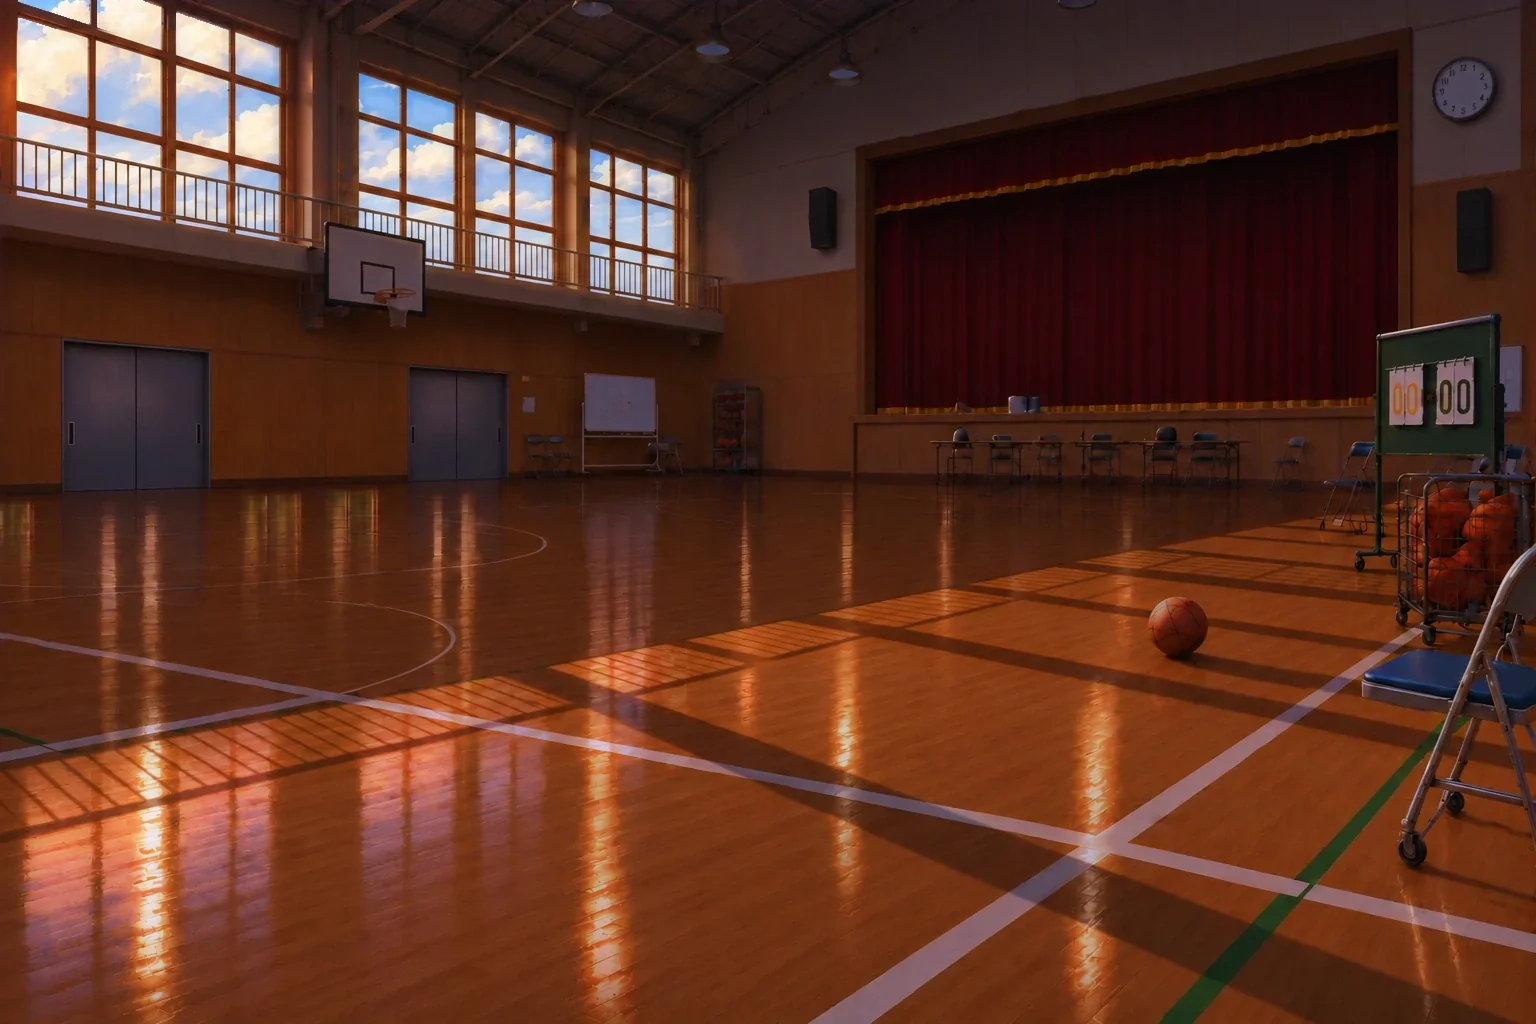
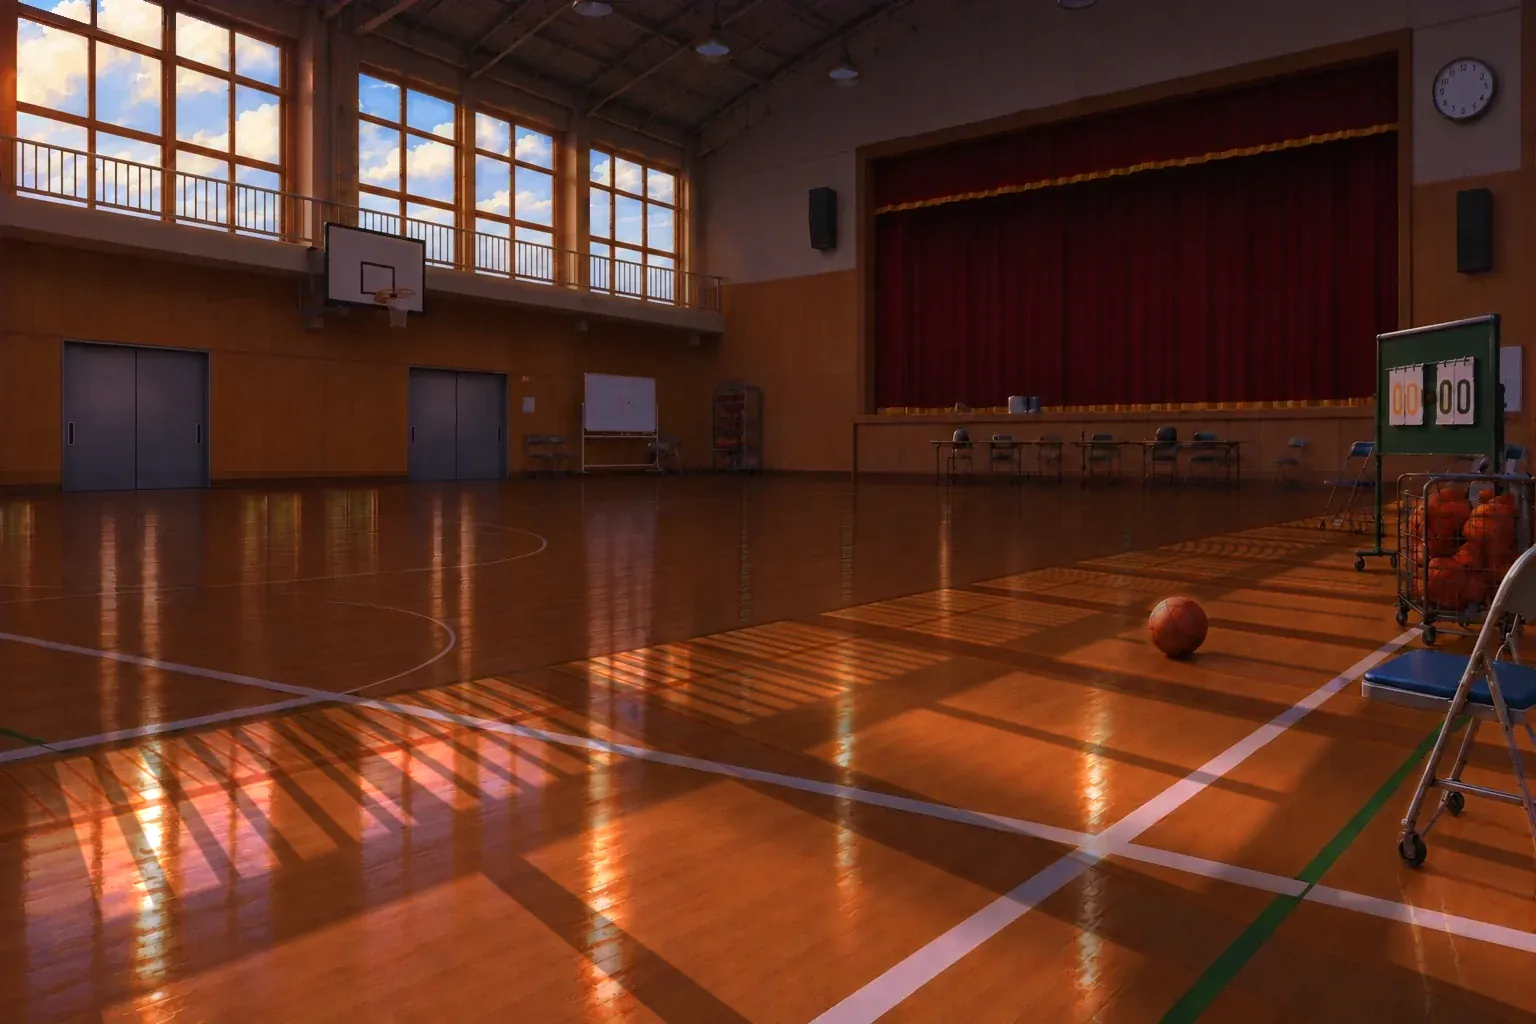
体育館の床の日差しを窓の形から計算し直す、ぎこちない校門前のミオを半歩手前に、ミオの差し出す表情・一歩下がるときの拡大・背景の椅子の読み込みを直す

Changed region(s): [[0.0, 0.5, 1.0, 1.0], [0.2812, 0.5, 0.3125, 0.5625], [0.2188, 0.5, 0.25, 0.5625]]

diff --git a/index.html b/index.html
@@ -1308,12 +1308,22 @@
   let guest = null;
   function guestRender() {
     const g = $('#guestFig');
-    if (!guest || !C || !C.faces[guest.f]) { g.classList.remove('show'); return; }
+    if (!guest || !C || !C.faces[guest.f]) { guestRender.tok = (guestRender.tok || 0) + 1; g.classList.remove('show'); return; }
     // small：一回り小さい全身の絵（mio_f_*）。脚は画面の下で切れる（2026-11-10、第五章でミオがベッドから一歩さがった後）
-    if ((guest.far === 'small' || guest.far === 'distant') && !guestRender.pre) guestRender.pre = ['down', 'nb', 'nb_apology', 'nb_surprise', 'nb_down', 'nb_grief', 'nb_plead', 'nb_crysmile', 'nb_skirt', 'nbleave', 'nbleavewonder'].map(s => { const i = new Image(); i.src = `img/mio_f_${s}_inf.webp`; return i; });   // 切り替えでちらつかないよう先に読む
+    // 2026-11-16：全身の小さい絵は、ミオが出た時点で先に読んでおく（前は小さくする瞬間に読み始めていた）
+    if (guest.who === 'ミオ' && !guestRender.pre) guestRender.pre = ['down', 'nb', 'nb_apology', 'nb_surprise', 'nb_down', 'nb_grief', 'nb_plead', 'nb_crysmile', 'nb_skirt', 'nbleave', 'nbleavewonder'].map(s => { const i = new Image(); i.src = `img/mio_f_${s}_inf.webp`; return i; });   // 切り替えでちらつかないよう先に読む
     const small = guest.far === 'small' || guest.far === 'distant', url = `img/${small ? faceFile(guest.f).replace('mio_p_', 'mio_f_') : faceFile(guest.f)}.webp`;
-    if (g.getAttribute('src') !== url) g.src = url;
-    g.classList.toggle('far', guest.far === true); g.classList.toggle('mid', guest.far === 'mid'); g.classList.toggle('small', guest.far === 'small'); g.classList.toggle('distant', guest.far === 'distant'); g.classList.add('show');
+    const far = guest.far, apply = () => {
+      if (g.getAttribute('src') !== url) g.src = url;
+      g.classList.toggle('far', far === true); g.classList.toggle('mid', far === 'mid'); g.classList.toggle('small', far === 'small'); g.classList.toggle('distant', far === 'distant'); g.classList.add('show');
+    };
+    // 2026-11-16 作者の指摘：一歩下がる（small）とき、新しい絵の読み込みが終わる前に大きさの指定だけが先に変わり、前の絵が一瞬大きく映っていた。
+    // 絵が変わるときは、読み込みが終わってから絵と大きさを同時に替える
+    if (g.getAttribute('src') === url) return apply();
+    const tok = guestRender.tok = (guestRender.tok || 0) + 1, im = new Image(); im.src = url;
+    if (im.complete && im.naturalWidth) return apply();
+    const go = () => { if (guestRender.tok === tok) apply(); };
+    (im.decode ? im.decode() : new Promise((r, j) => { im.onload = r; im.onerror = j; })).then(go, go);
   }
   const guestShow = (f, far, who = 'ミオ') => () => { guest = { f, far: far === undefined && guest ? guest.far : (far || false), who }; guestRender(); };
   const guestHide = () => () => { guest = null; guestRender(); };
@@ -2942,10 +2952,20 @@
     if (!fr || !bg || !sf || !chEl) return;   // 後日談のページ（この部分のコードを取り込む）には座り姿がない
     const hit = sitRoomOfBg();
     const sit = hit && hit.ch.sit;
+    // 2026-11-16 作者の指摘：背景の絵の読み込みとずれて、椅子だけ先に出たり消えたりしていた。
+    // 背景の読み込みが終わるまでは椅子と手前の家具を出さず、椅子の絵も読み込みが終わってから見せる
+    if (bg.getAttribute('src') && !(bg.complete && bg.naturalWidth)) {
+      chEl.style.display = 'none'; fr.style.display = 'none';
+      if (!syncSitFront.wait) { syncSitFront.wait = true; bg.addEventListener('load', () => { syncSitFront.wait = false; syncSitFront(); }, { once: true }); }
+      return;
+    }
     if (sit && sit.chair) {
       const want = `img/${sit.chair}${hit.v}.webp`;
+      syncSitFront.pre = syncSitFront.pre || {};
+      if (!syncSitFront.pre[sit.chair]) syncSitFront.pre[sit.chair] = ['', '_unlit', '_1830_dark', '_1830_lit'].map(v => { const i = new Image(); i.src = `img/${sit.chair}${v}.webp`; return i; });   // 明かりが替わるときに椅子が一瞬消えないよう、4つとも先に読む
       if (chEl.getAttribute('src') !== want) chEl.setAttribute('src', want);
       chEl.setAttribute('style', sit.style); chEl.style.opacity = bg.style.opacity || '';
+      if (!(chEl.complete && chEl.naturalWidth)) { chEl.style.visibility = 'hidden'; chEl.addEventListener('load', () => syncSitFront(), { once: true }); }
     } else chEl.style.display = 'none';
     const figOn = !sf.classList.contains('gone') && !!sf.getAttribute('src') && C && hit && hit.ch === C;
     // chairWhenGone：椅子だけの絵と座り絵の椅子の形が少しちがうので、その子が座っている間は椅子だけの絵を出さない（いなくなってから出す。2026-11-11 ミオ）
@@ -7904,7 +7924,7 @@
         await say([() => bgm('tension'), guestShow('mioDown'), ['ミオ', '……失礼します', 'mioDown'], ['ツムギ', '……ミオ', 'surprise'],
                    ['ミオ', '図書委員の、水野です。……予約の本を、届けに来ました', 'mioSad'],
                    // 差し出すときは目を伏せ、「当番、だから」でツムギの目を見る。受け取られたら本を持たない絵に
-                   guestShow('mioOffer'), 'ミオは胸に抱えていた本を、両手で差し出した。『ひとりぶんの椅子』。', ['ミオ', '……当番、だから', 'mioOfferSad'],
+                   guestShow('mioOfferSad'), 'ミオは胸に抱えていた本を、両手で差し出した。『ひとりぶんの椅子』。'   /* 2026-11-16 作者の指示：次の台詞と同じ表情に */, ['ミオ', '……当番、だから', 'mioOfferSad'],
                    guestHide(), 'ツムギは本を受け取って、そっと表紙を撫でた。ページの間からしおりがのぞいている。']);
         await say([guestShow('mioNbSad'), 'ツムギがしおりを開いた。', '「一年のとき、この本を教えてくれてありがとう。一人で座っていた私に、最初に話しかけてくれたのは、ツムギだった。」',
                    '「黒板の字を書いたのは、私です。ごめんなさい。いてもいなくても同じなんかじゃない。」',
@@ -8052,6 +8072,7 @@
                                          '正門の手前で、ツムギが一度だけ振り返って、手を振った。……その隣で、ミオも小さく手を振った。'],
                                   img: 'gate_mt', alt: '夕焼けの正門で、ツムギとミオが並んで振り返り、二人とも笑って手を振っている' });
     return ending({ lines: ['ミオとツムギと一緒に、保健室を出た。', '昇降口で靴を履き替えると、二人は少しだけ間をあけて、正門へ歩いていった。',
+                            // 2026-11-16 作者の指示：文はそのまま、絵のほうをミオがツムギの半歩後ろに立つ形に直した
                             '正門の手前で、ツムギが振り返って、手を振った。……半歩後ろで、ミオもうつむいたまま小さく手を上げた。'],
                     img: 'gate_mt_awk', alt: '夕焼けの正門で、ツムギが振り返って手を振り、半歩後ろでミオがうつむいて小さく手を上げている' });
   }
